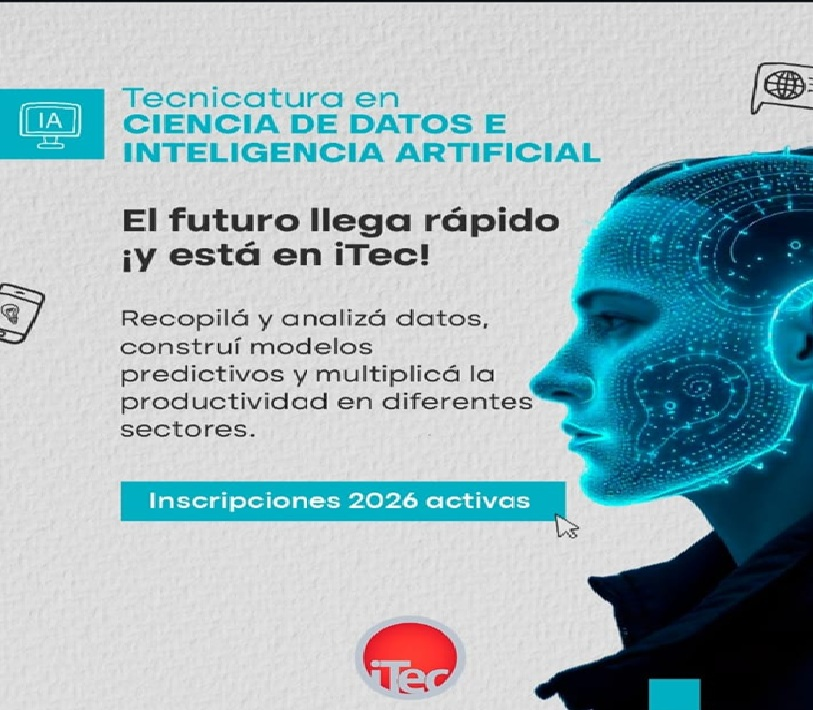
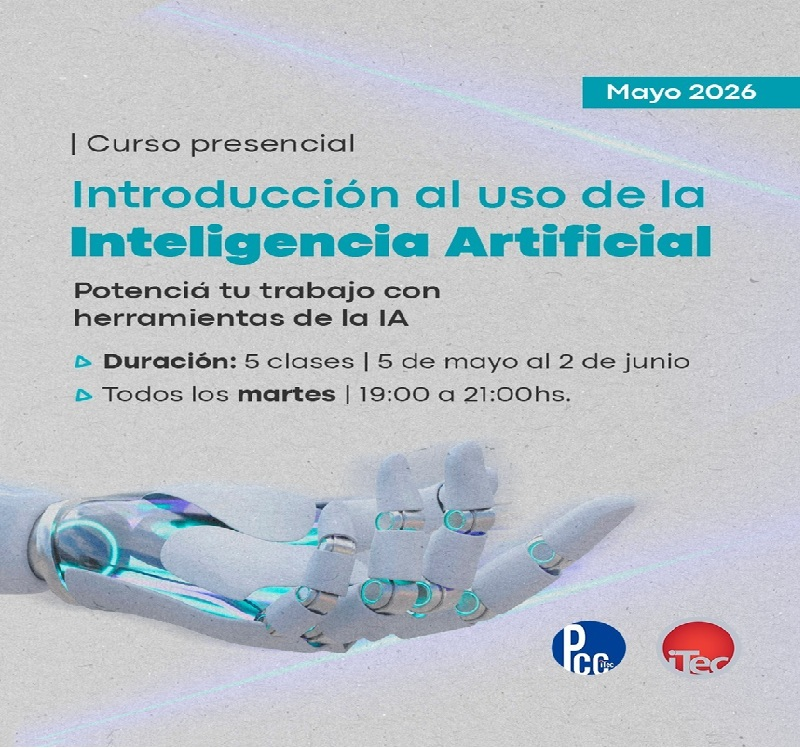
itec

diff --git a/index.html b/index.html
@@ -163,6 +163,9 @@
             <a href="https://segurosenriocuarto.com/" target="_blank">
             <img src="banners/gustlopez.jpg" alt="Publicidad Seguros Rio Cuarto">
                 </a>
+            <a href="https://www.itecriocuarto.org.ar/carreras/inteligencia-artificial" target="_blank">
+            <img src="banners/banner-ia-vertical.jpg" alt="Publicidad Tecnicatura en Ciencia de Datos e IA">
+                </a>
             <a href="https://www.instagram.com/gaston_factory/" target="_blank" class="insta-link" data-user="gaston_factory">
             <img src="banners/fact.jpg" alt="Publicidad FActory Rio Cuarto">
                 </a>
@@ -186,9 +189,7 @@
                 <a href="https://www.instagram.com/rumipal_bebidas/" target="_blank" class="insta-link" data-user="rumipal_bebidas">
             <img src="banners/rumipalbanner.jpg" alt="Publicidad Rumipal Rio cuarto">
                 </a>
-                <a href="https://www.itecriocuarto.org.ar/carreras/inteligencia-artificial" target="_blank">
-            <img src="banners/banner-ia-vertical.jpg" alt="Publicidad Tecnicatura en Ciencia de Datos e IA">
-                </a>
+                
  <script>
 document.addEventListener("DOMContentLoaded", function() {
     const esMovil = /Android|iPhone|iPad|iPod/i.test(navigator.userAgent);